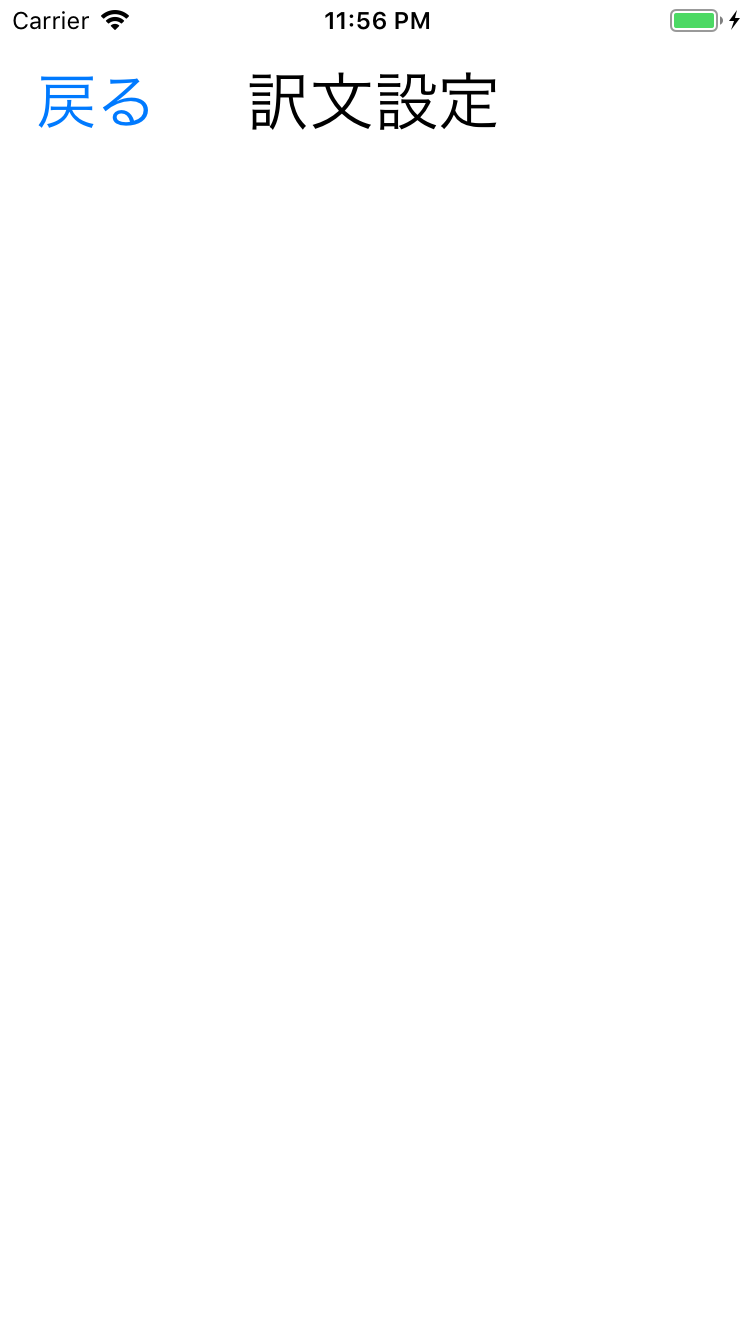
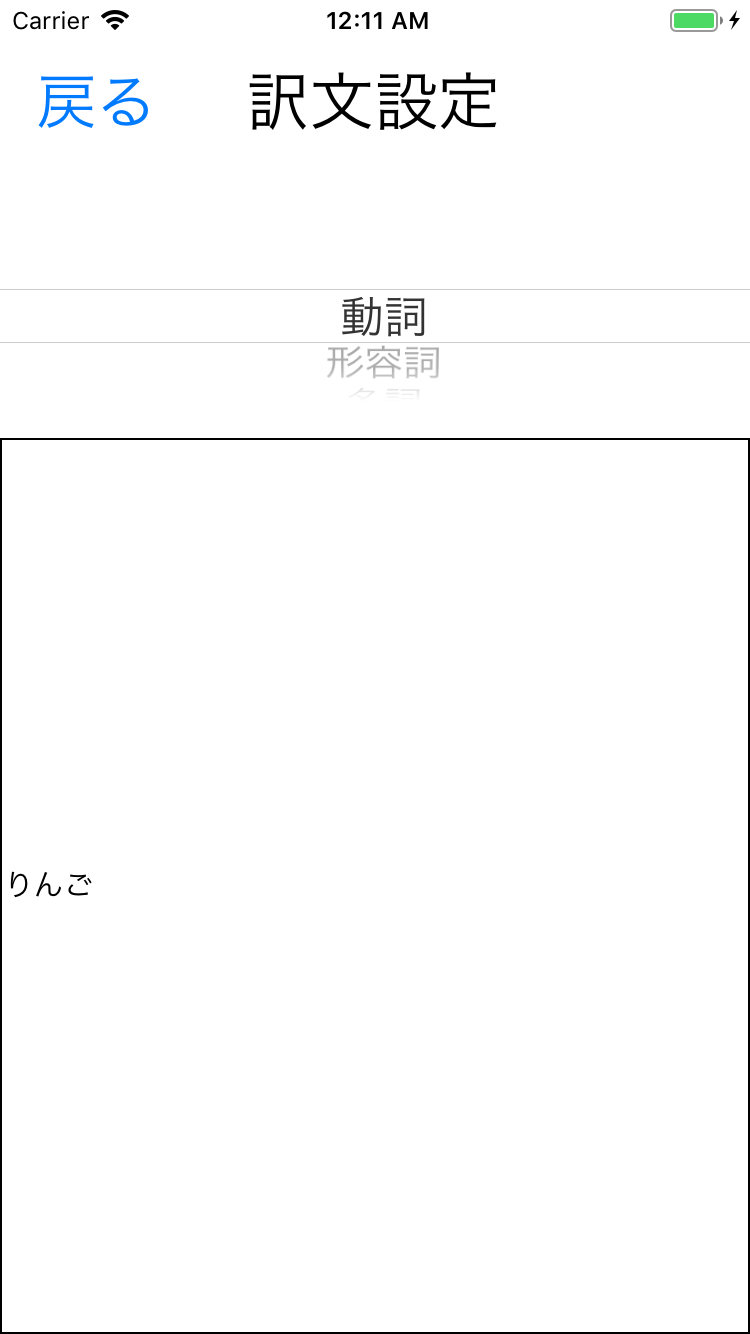
訳文設定画面に品詞、意味を表示（編集・保存は不可）、戻るボタン実装

diff --git a/EnglishWords/EnglishWords/ConfigureMeanViewController.swift b/EnglishWords/EnglishWords/ConfigureMeanViewController.swift
@@ -10,13 +10,70 @@ import Foundation
 import UIKit
 import RealmSwift
 
-class ConfigureMeanViewController:UIViewController {
+class ConfigureMeanViewController:UIViewController,UIPickerViewDelegate,UIPickerViewDataSource {
+    
+    var mean: WordData?
+    var partsofspeechlist: [PartsofSpeech] = []
+    
+    var selectedpartofspeech: PartsofSpeech?
+    
+    @IBOutlet var partofspeeches: UIPickerView!
+    @IBOutlet var textField: UITextField!
     
     override func viewDidLoad() {
         super.viewDidLoad()
+        
+        // Delegate設定
+        partofspeeches.delegate = self
+        partofspeeches.dataSource = self
+        
+        //データベース内に保存してあるPartsofSpeechを全て取得
+        let realm: Realm = try! Realm()
+        let results = realm.objects(PartsofSpeech.self)
+        partsofspeechlist = Array(results)
+        
+        //テキストフィールドの初期値に登録されてある意味
+        textField.text = mean?.mean
     }
     
     override func didReceiveMemoryWarning() {
         super.didReceiveMemoryWarning()
+    }
+    
+    @IBAction func buttonTapped(sender : AnyObject) {
+        performSegue(withIdentifier: "returnToConfigureWordViewController",sender: nil)
+    }
+    
+    // Segue 準備
+    override func prepare(for segue: UIStoryboardSegue, sender: Any?) {
+        if (segue.identifier == "returnToConfigureWordViewController") {
+            let configureWordVC: ConfigureWordViewController = (segue.destination as? ConfigureWordViewController)!
+            configureWordVC.selectedword = mean?.word
+        }
+    }
+    
+    // UIPickerViewの列の数
+    func numberOfComponents(in pickerView: UIPickerView) -> Int {
+        return 1
+    }
+    
+    // UIPickerViewの行数、リストの数
+    func pickerView(_ pickerView: UIPickerView, numberOfRowsInComponent component: Int) -> Int {
+        return partsofspeechlist.count
+    }
+    
+    // UIPickerViewに表示する配列
+    func pickerView(_ pickerView: UIPickerView,
+                    titleForRow row: Int,
+                    forComponent component: Int) -> String? {
+        
+        return partsofspeechlist[row].partsOfSpeechName
+    }
+    
+    // UIPickerViewのRowが選択された時の挙動
+    func pickerView(_ pickerView: UIPickerView,
+                    didSelectRow row: Int,
+                    inComponent component: Int) {
+        selectedpartofspeech = partsofspeechlist[row]
     }
 }

diff --git a/EnglishWords/EnglishWords/ConfigureWordViewController.swift b/EnglishWords/EnglishWords/ConfigureWordViewController.swift
@@ -97,6 +97,7 @@ class ConfigureWordViewController: UIViewController, UITableViewDelegate, UITabl
             let _: DictionaryViewController = (segue.destination as? DictionaryViewController)!
         }else if (segue.identifier == "toConfigureMeanViewController"){
             let configureMeanVC: ConfigureMeanViewController = (segue.destination as? ConfigureMeanViewController)!
+            configureMeanVC.mean = selectedmean
         }
     }
     
